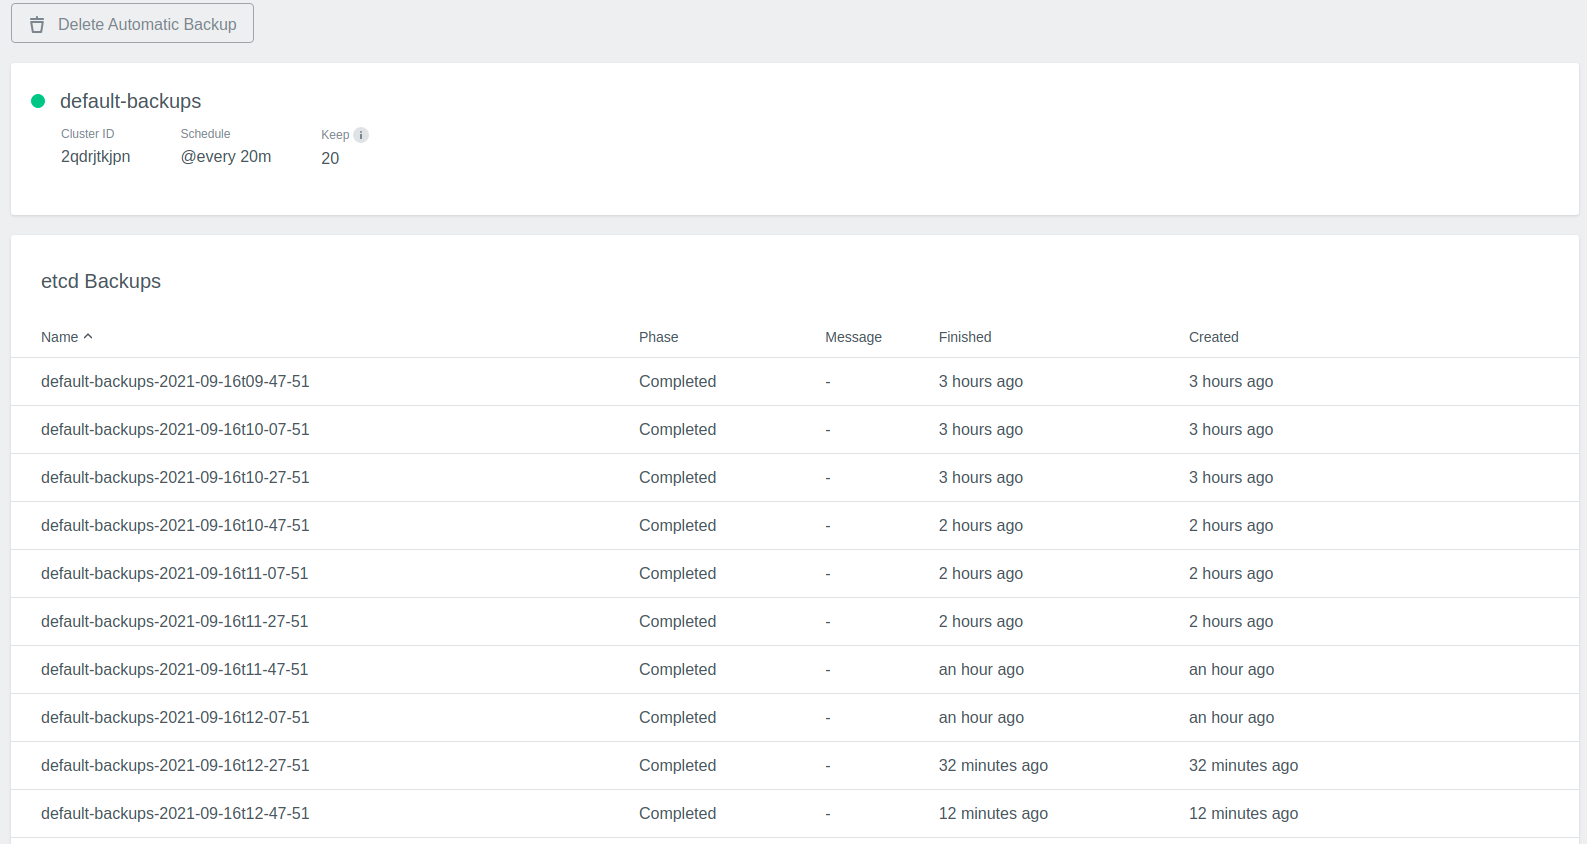
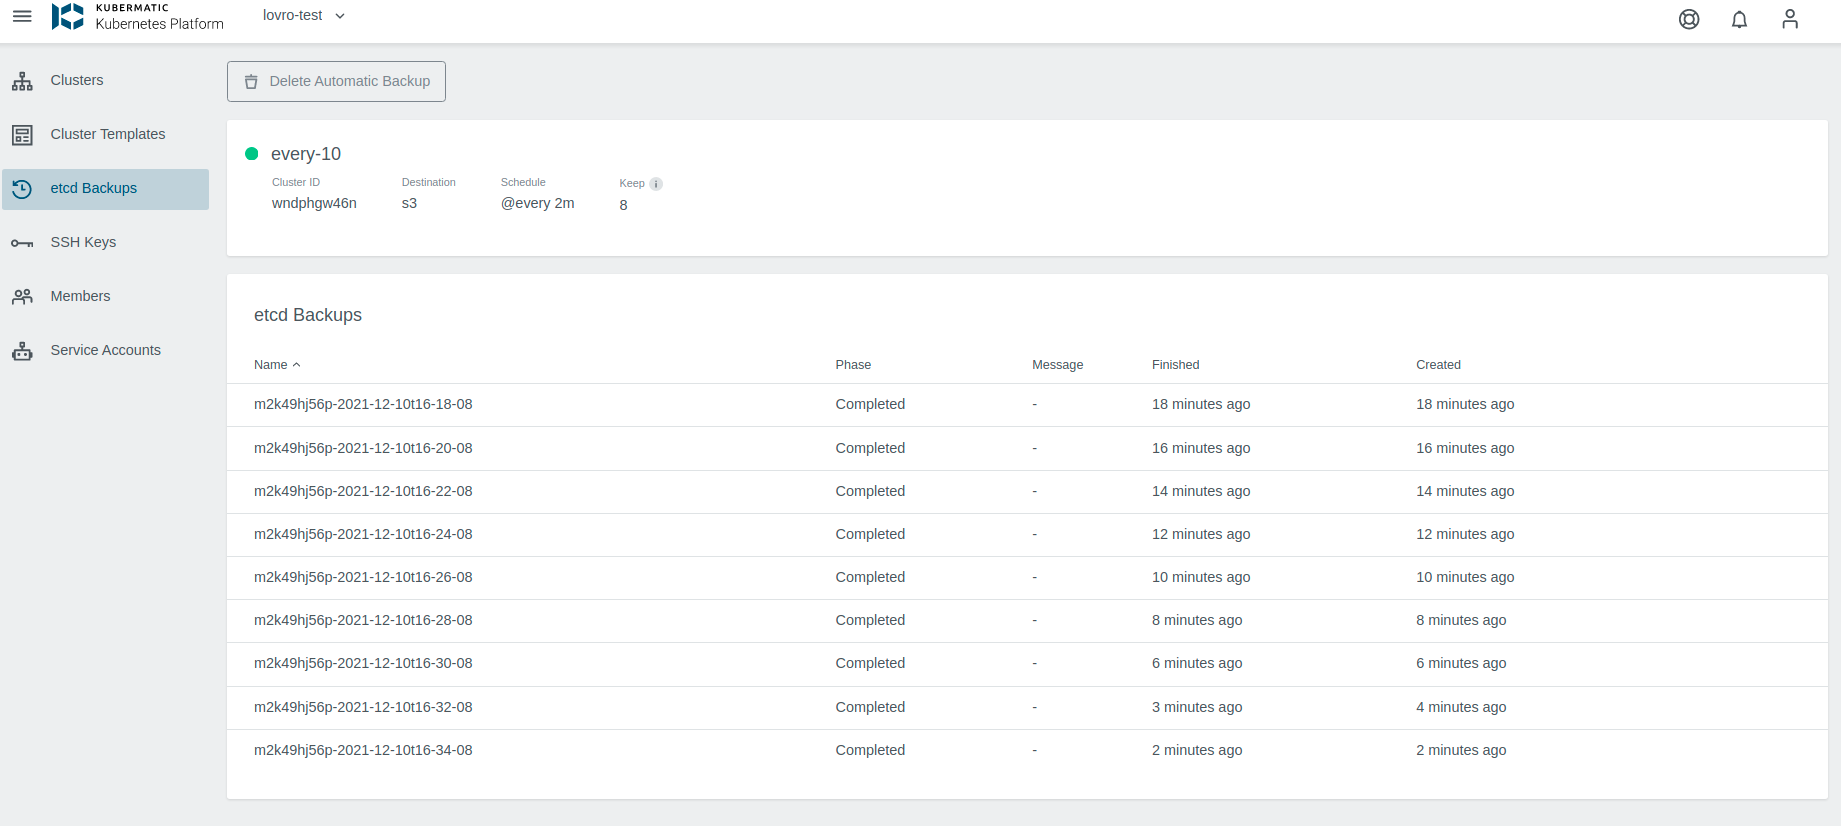
updated etcd backup docs

diff --git a/content/kubermatic/master/cheat_sheets/etcd/backup-and-restore/_index.en.md b/content/kubermatic/master/cheat_sheets/etcd/backup-and-restore/_index.en.md
@@ -1,5 +1,5 @@
 +++
-title = "[Experimental] Etcd Backup and Restore Controllers"
+title = "Etcd Backup and Restore Controllers"
 weight = 40
 +++
 
@@ -7,6 +7,8 @@ weight = 40
 ## Overview
 
 Starting with version v2.17, KKP introduced experimental support for new etcd Backup and Restore controller based on the [etcd-launcher]({{< ref "../etcd-launcher" >}}) experimental feature.
+
+Since 2.18, the feature is not experimental anymore
 
 The [legacy backup controller]({{< ref "../legacy_restore" >}}) is based on a simple cron job and didn't support automated restore operations. The new experimental controllers utilize new CRDs for backups and restore, support multiple backup configurations per cluster, immediate backups and automated restore operations.
 
@@ -20,26 +22,12 @@ Currently, only S3 compatible backup backends are supported.
 
 ## Enabling The New controllers
 
-To use the new backup/restore controller, the [etcd-launcher]({{< ref "../etcd-launcher" >}}) experimental feature must be enabled along with specifically enabling the controllers by passing the flag `--enable-etcd-backups-restores` to the seed controller manager. This can be achieved by setting the following values in the [KubermaticConfiguration]({{< ref "../../../tutorials_howtos/KKP_configuration/" >}}):
-
-```yaml
-spec:
-  # SeedController configures the seed-controller-manager.
-  seedController:
-    # BackupRestore contains the setup of the new backup and restore controllers.
-    backupRestore:
-      # Enabled enables the new etcd backup and restore controllers.
-      enabled: true
-      # S3BucketName is the S3 bucket name to use for backup and restore.
-      s3BucketName: ""
-      # S3Endpoint is the S3 API endpoint to use for backup and restore. Defaults to s3.amazonaws.com.
-      s3Endpoint: ""
-    # BackupDeleteContainer is the container used for deleting etcd snapshots from a backup location.
-    backupDeleteContainer: ""
-```
+To use the new backup/restore controller, the [etcd-launcher]({{< ref "../etcd-launcher" >}}) feature must be enabled along with specifically enabling the controllers by passing the flag `--enable-etcd-backups-restores` to the seed controller manager.
+This can be achieved for a Seed by KPP admins through configuring backup destinations for a Seed. As soon as there is at least one backup destination set, the feature is enabled. 
+More info on that here [Etcd Backup Destination Settings]({{< ref "../../../tutorials_howtos/administration/admin_panel/backup_buckets" >}}).
 
 {{% notice note %}}
-
+The legacy way of enabling the automatic etcd backups through the KubermaticConfiguration is still supported, although deprecated. It's advised to migrate to the Seed backup destinations.
 {{% /notice %}}
 
 ### Backup and Delete Containers
@@ -60,36 +48,17 @@ charts/kubermatic/static/delete-container.yaml
 You can't have both `backupCleanupContainer` and `backupDeleteContainer` set. `backupDeleteContainer` will take precedence when the new controller is enabled.
 {{% /notice %}}
 
-{{% notice note %}}
-The new containers expect that the S3 backend is SSL enabled. Unfortunately, the released minio chart doesn't support that by default, and will need to be modified to run over minio over SSL.
-{{% /notice %}}
-
-
 ### S3 Credentials and Settings
 
-The new controllers will use the credentials from the secret `kube-system/s3-credentials` similar to the legacy backup controller.
+The new controllers will use the credentials setup in the Seed Backup destinations, depending on the destination used. 
 
-However, when using the new containers, creating an additional ConfigMap with the S3 backend settings is required:
-
-```yaml
-apiVersion: v1
-kind: ConfigMap
-metadata:
-  name: s3-settings
-  namespace: kube-system
-data:
-  BUCKET_NAME: 
-  ENDPOINT: 
-```
-
+{{% notice note %}}
+Legacy credentials from `kube-system/s3-credentials` and the bucket details in `s3-settings` configmap is still supported, but deprecated. Please migrate to backup destinations.
+{{% /notice %}}
 
 ## Creating Backups
 
-By default a new backup configuration resource is created in the cluster namespace for each user cluster once the controllers are enabled. The new backup configuration resource is created with a default of `@every 20m` interval and 20 backup retention.
-
-### Custom Backup Configurations
-
-However, it's possible to create additional backup configuration if needed, simply by creating a backup configuration resource:
+To create an automatic backup, simply create a backup configuration resource. Or use the UI as shown here [Etcd Backup Management]({{< ref "../../../tutorials_howtos/etcd_backups" >}}).
 
 ```yaml
 apiVersion: kubermatic.k8s.io/v1
@@ -104,9 +73,13 @@ spec:
     name: zvc78xnnz7
   schedule: '0 1 * * *'
   keep: 40
+  destination: s3
 ```
 
-Once created, the controller will start a new backup every time the schedule demands it (i.e. at 1:00 AM in the example), and delete backups once more than `.spec.keep` (40 in the example) have been created. The created backups are named based on the configuration name and the backup timestamp `$backupconfigname-$timestamp`.
+Once created, the controller will start a new backup every time the schedule demands it (i.e. at 1:00 AM in the example),
+and delete backups once more than `.spec.keep` (40 in the example) have been created. The created backups are named based on the
+configuration name and the backup timestamp `$backupconfigname-$timestamp`. The backup is stored at the specified backup destination,
+which is configured per seed.
 
 Backup creations and deletions are done by spawning Kubernetes jobs. For each backup, a job is created with an init container that creates a snapshot and a main container that will run the customizable store container. It will receive the cluster name and backup name in two environment variables. The store container should upload the snapshot to an S3 compatible backend and return exit code 0 if successful.
 
@@ -114,7 +87,7 @@ When a backup needs to be deleted, the controller starts another job with the de
 
 The controller maintains list of backups related to this configuration in the resource status spec, where it tracks the creation and deletion status of all backups that haven't been successfully deleted yet.
 
-### One Time Backups
+### One Time Backups - Snapshots
 
 It's also possible to trigger a one-time backup if needed. Simply by creating a backup configuration that doesn't have a `schedule` set in the spec. The backup controller will immediately create a backup job for the user cluster and will not attempt to run it again or delete it later.
 
@@ -168,6 +141,7 @@ spec:
     kind: Cluster
     name: zvc78xnnz7
   backupName: daily-backup-2021-03-02T15:24:00
+  destination: s3
 ```
 
 Once this resource is created, the controller will reconcile it and apply the following restore procedure:
@@ -178,7 +152,7 @@ Once this resource is created, the controller will reconcile it and apply the fo
 - Unpause the cluster and wait until the cluster controller has recreated the etcd Statefulset. 
 - During the etcd Statefulset recreation, the etcd-launcher will detect the active restore resources and will download the backup from the S3 backend based on the credentials from the `kube-system/s3-credentials` secret and the information from the `kube-system/s3-settings` configmap. 
 - Once the backup is downloaded successfully, the etcd-launcher will restore the backup and restart the etcd ring.
-- Once the etcd cluster is recovered and quorum is achieved, the `EtcdClusterInitialized` cluster condition to true. At this point the 
+- Once the etcd cluster is recovered and quorum is achieved, the `EtcdClusterInitialized` cluster condition to true.
 
 
 {{% notice note %}}

diff --git a/content/kubermatic/master/tutorials_howtos/etcd_backups/_index.en.md b/content/kubermatic/master/tutorials_howtos/etcd_backups/_index.en.md
@@ -7,14 +7,11 @@ weight = 20
 
 Through KKP you can set up automatic scheduled etcd backups for your user clusters, and easily restore etcd to its previous state.
 
-Firstly, you need to enable and configure the backup bucket, endpoint and credentials. To see how, check [Backup Buckets Settings]({{< ref "../administration/admin_panel/backup_buckets" >}}) 
+Firstly, you need to enable and configure the destination(backup bucket, endpoint and credentials). To see how, check [Etcd Backup Destination Settings]({{< ref "../administration/admin_panel/backup_buckets" >}}) 
 
 ## Etcd Backups
 
-By default a new backup configuration resource is created in the cluster namespace for each user cluster once the controllers are enabled.
-The new backup configuration resource is created with a default of `@every 20m` interval and `20` backup retention.
-
-However, it's possible to create additional backup configuration if needed, simply by creating a backup configuration resource:
+When the etcd backups are configured for a seed, project admins can create automatic Etcd Backups for the project clusters. B
 
 ```yaml
 apiVersion: kubermatic.k8s.io/v1
@@ -29,11 +26,13 @@ spec:
     name: zvc78xnnz7
   schedule: '@every 20m'
   keep: 20
+  destination: s3
 ```
 
 Once created, the controller will start a new backup every time the schedule demands it (i.e. at 1:00 AM in the example),
 and delete backups once more than `.spec.keep` (20 in the example) have been created. The created backups are named based
-on the configuration name and the backup timestamp `$backupconfigname-$timestamp`.
+on the configuration name and the backup timestamp `$backupconfigname-$timestamp`. The backup is stored at the specified backup destination,
+which is configured per seed. 
 
 It is also possible to do one-time backups (snapshots).
 
@@ -46,9 +45,10 @@ EtcdBackups and Restores are project resources, and you can manage them in the P
 ![Etcd Backups View](/img/kubermatic/master/ui/etcd_backups.png?classes=shadow,border "Project Etcd Backups")
 
 To create a backup, just click on the `Add Automatic Backup` button. You have a choice of preset daily, weekly or monthly backups,
-or you can create a backup with a custom interval and keep time.
+or you can create a backup with a custom interval and keep time. The destination dropdown is based on the configured backup destinations
+for a given seed the cluster belongs to.
 
-![Etcd Backups Configuration](/img/kubermatic/master/ui/add_etcd_backup.png?classes=shadow,border "Etcd Backups Configuration")
+![Etcd Backups Configuration](/img/kubermatic/master/ui/add_backup.png?classes=shadow,border "Etcd Backups Configuration")
 
 To see what backups are available, click on a backup you are interested in, and you will see a list of completed backups.
 
@@ -65,7 +65,7 @@ If you want to restore from a specific backup, just click on the restore from ba
 You can also create one-time backup snapshots, they are set up similarly to the automatic ones, with the difference that they do not
 have a schedule or keep count set.
 
-![Etcd Backup Snapshots](/img/kubermatic/master/ui/backup_snapshots.png?classes=shadow,border "Etcd Backup Snapshots")
+![Etcd Backup Snapshots](/img/kubermatic/master/ui/add_backup_snapshot.png?classes=shadow,border "Etcd Backup Snapshots")
 
 ## Backup Restores
 
@@ -84,7 +84,7 @@ Meaning that they will still run, even though etcd(and K8s) is not aware of them
 
 This will create an EtcdRestore object for your cluster. You can observe the progress in the Restore list.
 
-![Etcd Restore List](/img/kubermatic/master/ui/restore_list.png?classes=shadow,border "Etcd Restore List")
+![Etcd Restore List](/img/kubermatic/master/ui/etcd_restores_list.png?classes=shadow,border "Etcd Restore List")
 
 In the cluster view, you may notice that your cluster is in a `Restoring` state, and you can not interact with it until it is done.
 

diff --git a/content/kubermatic/master/tutorials_howtos/administration/admin_panel/backup_buckets/_index.en.md b/content/kubermatic/master/tutorials_howtos/administration/admin_panel/backup_buckets/_index.en.md
@@ -1,35 +1,48 @@
 +++
-title = "Backup Buckets"
-date = 2021-09-16T11:07:15+02:00
+title = "Etcd Backup Settings"
+date = 2021-12-09T11:07:15+02:00
 weight = 20
 +++
 
-Through the Backup Buckets settings you can enable and configure the new etcd backups for each Seed.
+Through the Backup Destinations settings you can enable and configure the new etcd backups for each Seed.
 
-![Backup Buckets](/img/kubermatic/master/tutorials/backups/backup_buckets.png?classes=shadow,border "Backup Bucket Settings View")
+![Backup Destinations](/img/kubermatic/master/tutorials/backups/backup_destinations.png?classes=shadow,border "Backup Destinations Settings View")
 
 
-### Bucket Settings
+### Etcd Backup Settings
 
-Setting the Bucket and Endpoint for a Seed turns on the automatic etcd Backups and Restore feature, for that Seed only. For now,
+Setting a Bucket and Endpoint for a Seed turns on the automatic etcd Backups and Restore feature, for that Seed only. For now,
 we only support S3 compatible endpoints.
 
+It is possible to set multiple destinations per Seed, so that for example some backups can go into the local minio, and 
+some to an S3 bucket, depending on the importance.
+
 {{% notice note %}}
-Once enabled, unsetting the etcd backup name and endpoint won't disable the new backup. You need to manually edit the Seed object and 
-remove the `spec.backupRestore` field. We hope to improve this for the next release.
+For users already using the backups introduced in 2.18, when only one backup bucket and endpoint was available, their
+backups will still work, and the old method is still supported, but deprecated. A warning will be shown on the seed in question, which 
+instructs users to add a destination, and migrate backups to use destination.
+
+![Backup Destinations Warning](/img/kubermatic/master/tutorials/backups/backup_seed_warning.png?classes=shadow,border "Backup Destinations Settings View - Warning")
 {{% /notice %}}
 
-To set the endpoint and bucket, just click on the `Edit Bucket Setting` pen icon on the right. 
+To add a new backup destination, just click on the `Add Destination` button on the right. 
 
-![Edit Buckets](/img/kubermatic/master/tutorials/backups/edit_buckets.png?classes=shadow,border "Backup Bucket Settings Edit")
+When a destination is added, credentials also need to be added for the bucket. To do that, click on the `Edit Credentials`
+button and set the credentials. When credentials are properly set, the green checkmark appears and the destination can be used.
+
+![Add Backup Destination](/img/kubermatic/master/tutorials/backups/add_backup_destination.png?classes=shadow,border "Backup Destination Settings Add")
+
+To edit, just click on the `Edit Destination` pen icon on the right
+
+![Edit Backup Destination](/img/kubermatic/master/tutorials/backups/edit_backup_destination.png?classes=shadow,border "Backup Destination Settings Edit")
 
 ### Credentials
 
-For the etcd Backups and Restore to work correctly, the credentials for the bucket need to be set up as well. This can be
-done by clicking on the `Edit Credentials` button on the right.
+When a destination is added, credentials also need to be added for the bucket. To do that, click on the `Edit Credentials`
+button and set the credentials. When credentials are properly set, the green checkmark appears and the destination can be used.
 
 For security reasons, the API/UI does not offer a way to get the current credentials.
 
-![Edit Buckets](/img/kubermatic/master/tutorials/backups/set_backup_credentials.png?classes=shadow,border "Backup Bucket Credentials Edit")
+![Edit Credentials](/img/kubermatic/master/tutorials/backups/edit_backup_dest_credentials.png?classes=shadow,border "Backup Destination Credentials Edit")
 
 To see how to make backups and restore your cluster, check the [Etcd Backup and Restore Tutorial]({{< ref "../../../etcd_backups" >}}).
